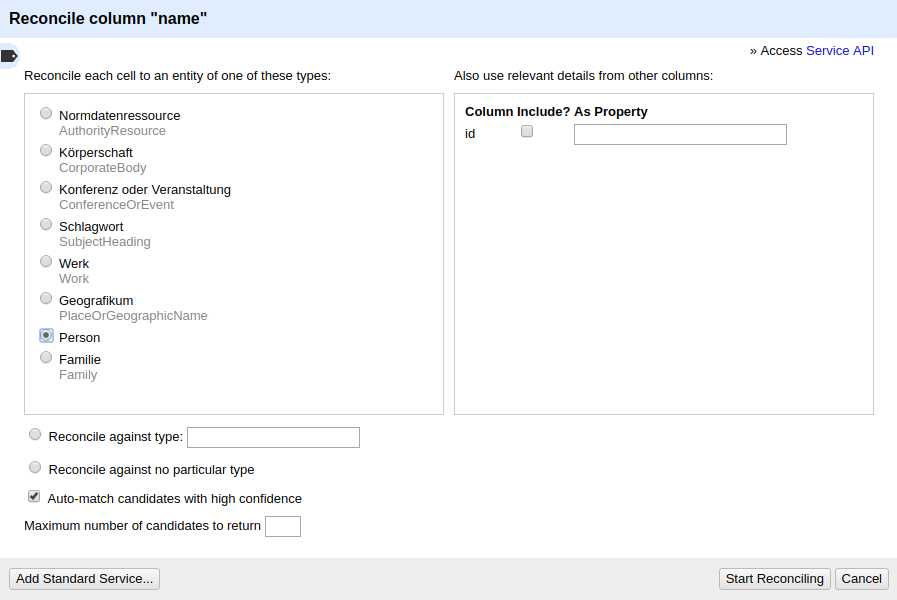
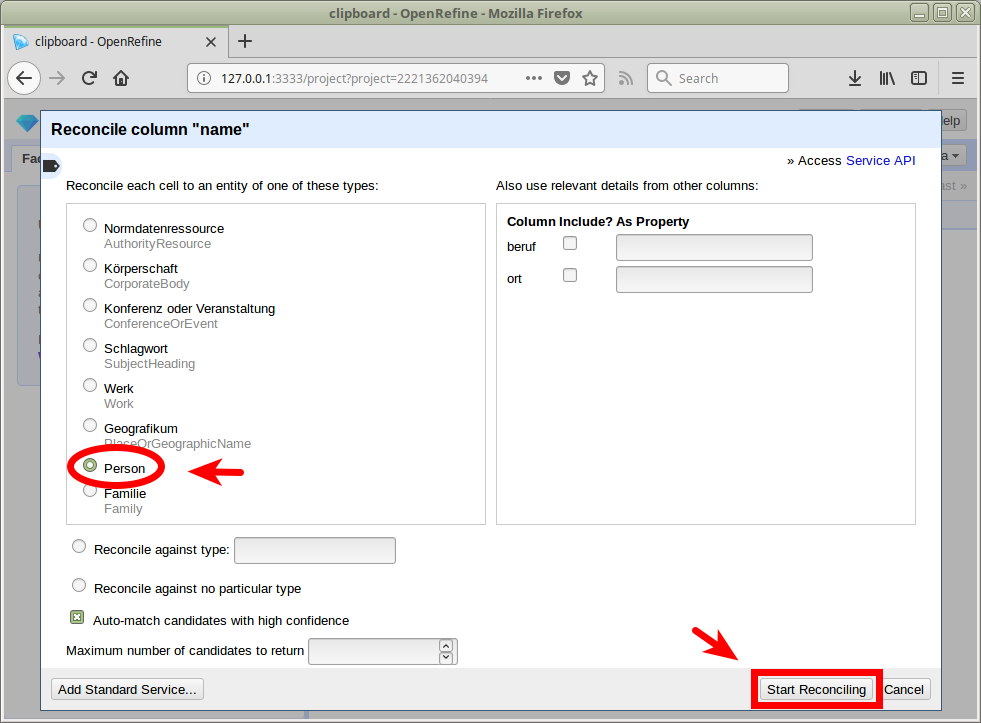
Infoprax: ergänze OpenRefine-Matching und -Anreicherung
Screenshots aktualisiert für einheitliche OpenRefine-Darstellung

See https://github.com/hbz/lobid/issues/393

diff --git a/doc/lobid-gnd.md b/doc/lobid-gnd.md
@@ -226,9 +226,13 @@ Mit der [OpenRefine](http://openrefine.org/) Reconciliation API in lobid-gnd ist
 ![](images/start-reconciling.png "start reconciling")
 2. Ergänzen des lobid-gnd Reconciliation Endpoints (`https://lobid.org/gnd/reconcile`) in OpenRefine
 ![](images/add-lobid-gnd-to-openrefine.png "ergänze lobid-gnd reconciliation API")
-3. (Optionale) Auswahl einer GND-Untermenge (hier "Person") für Reconciliation
+3. (Optionale) Auswahl einer GND-Untermenge (hier "Person") für Reconciliation und Start der API-Abfrage mit Klick auf "Start Reconciling"
 ![](images/choose-type-for-reconciliation.png "Typ-Auswahl")
-4. Start der API-Abfrage mit Klick auf "Start Reconciling"
+4. Auswahl der vorgeschlagenen Matches mit Vorschau
+![](images/match-with-preview.png "Auswahl der Matches")
+5. Anreicherung mit Daten aus GND-Einträgen
+![](images/data-extension.png "Anreicherung mit Daten aus GND-Einträgen")
+
 
 Eine detaillierte Anleitung zur Verwendung der GND Reconciliation in OpenRefine findet sich in Steeg & Pohl (2018).
 
